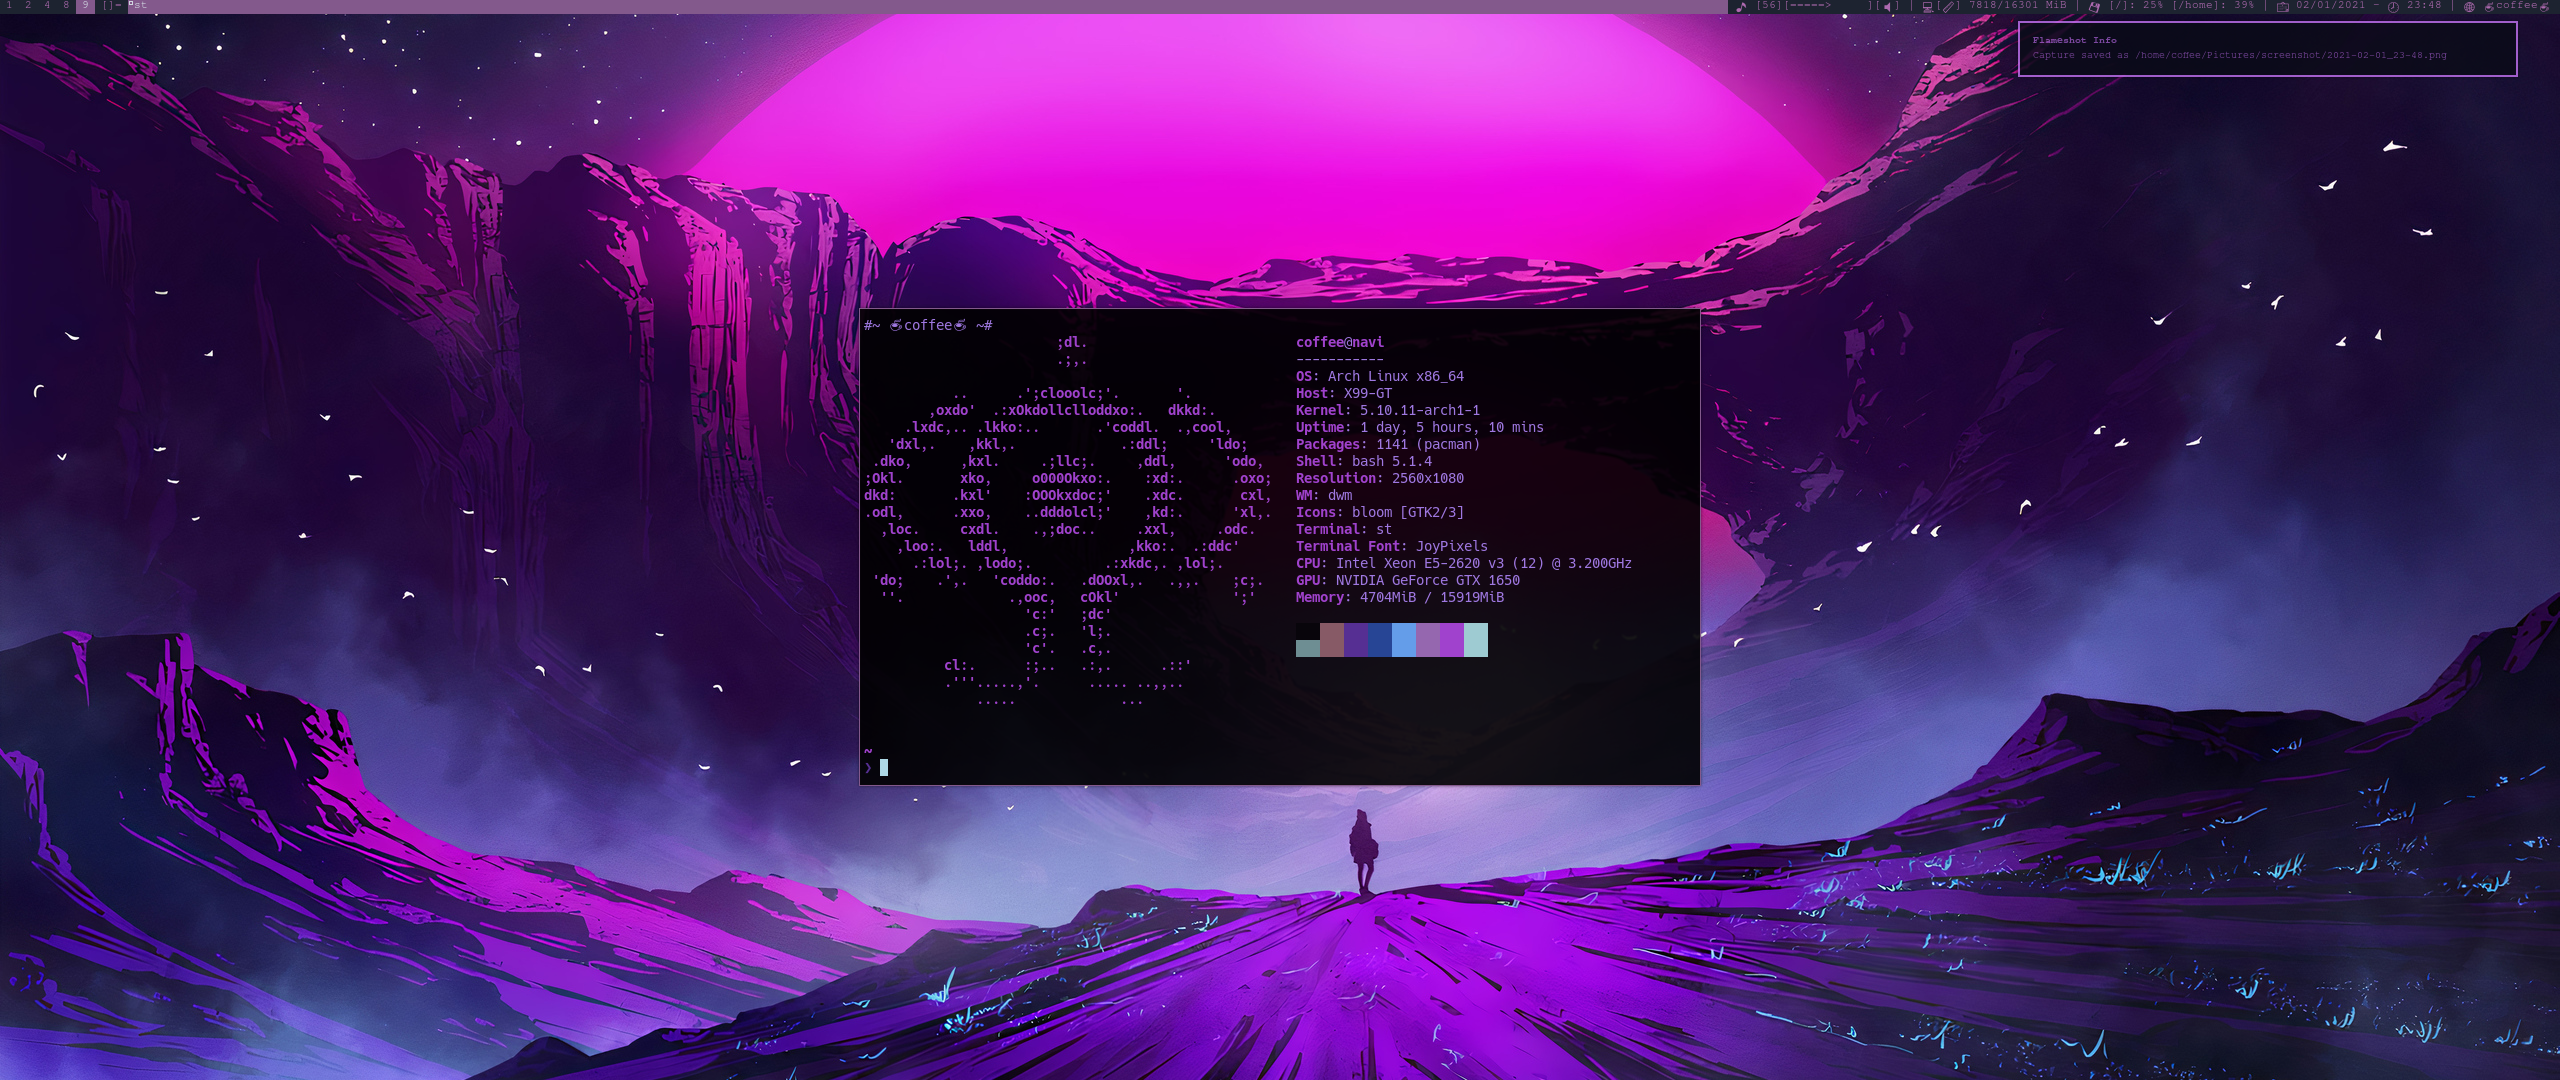
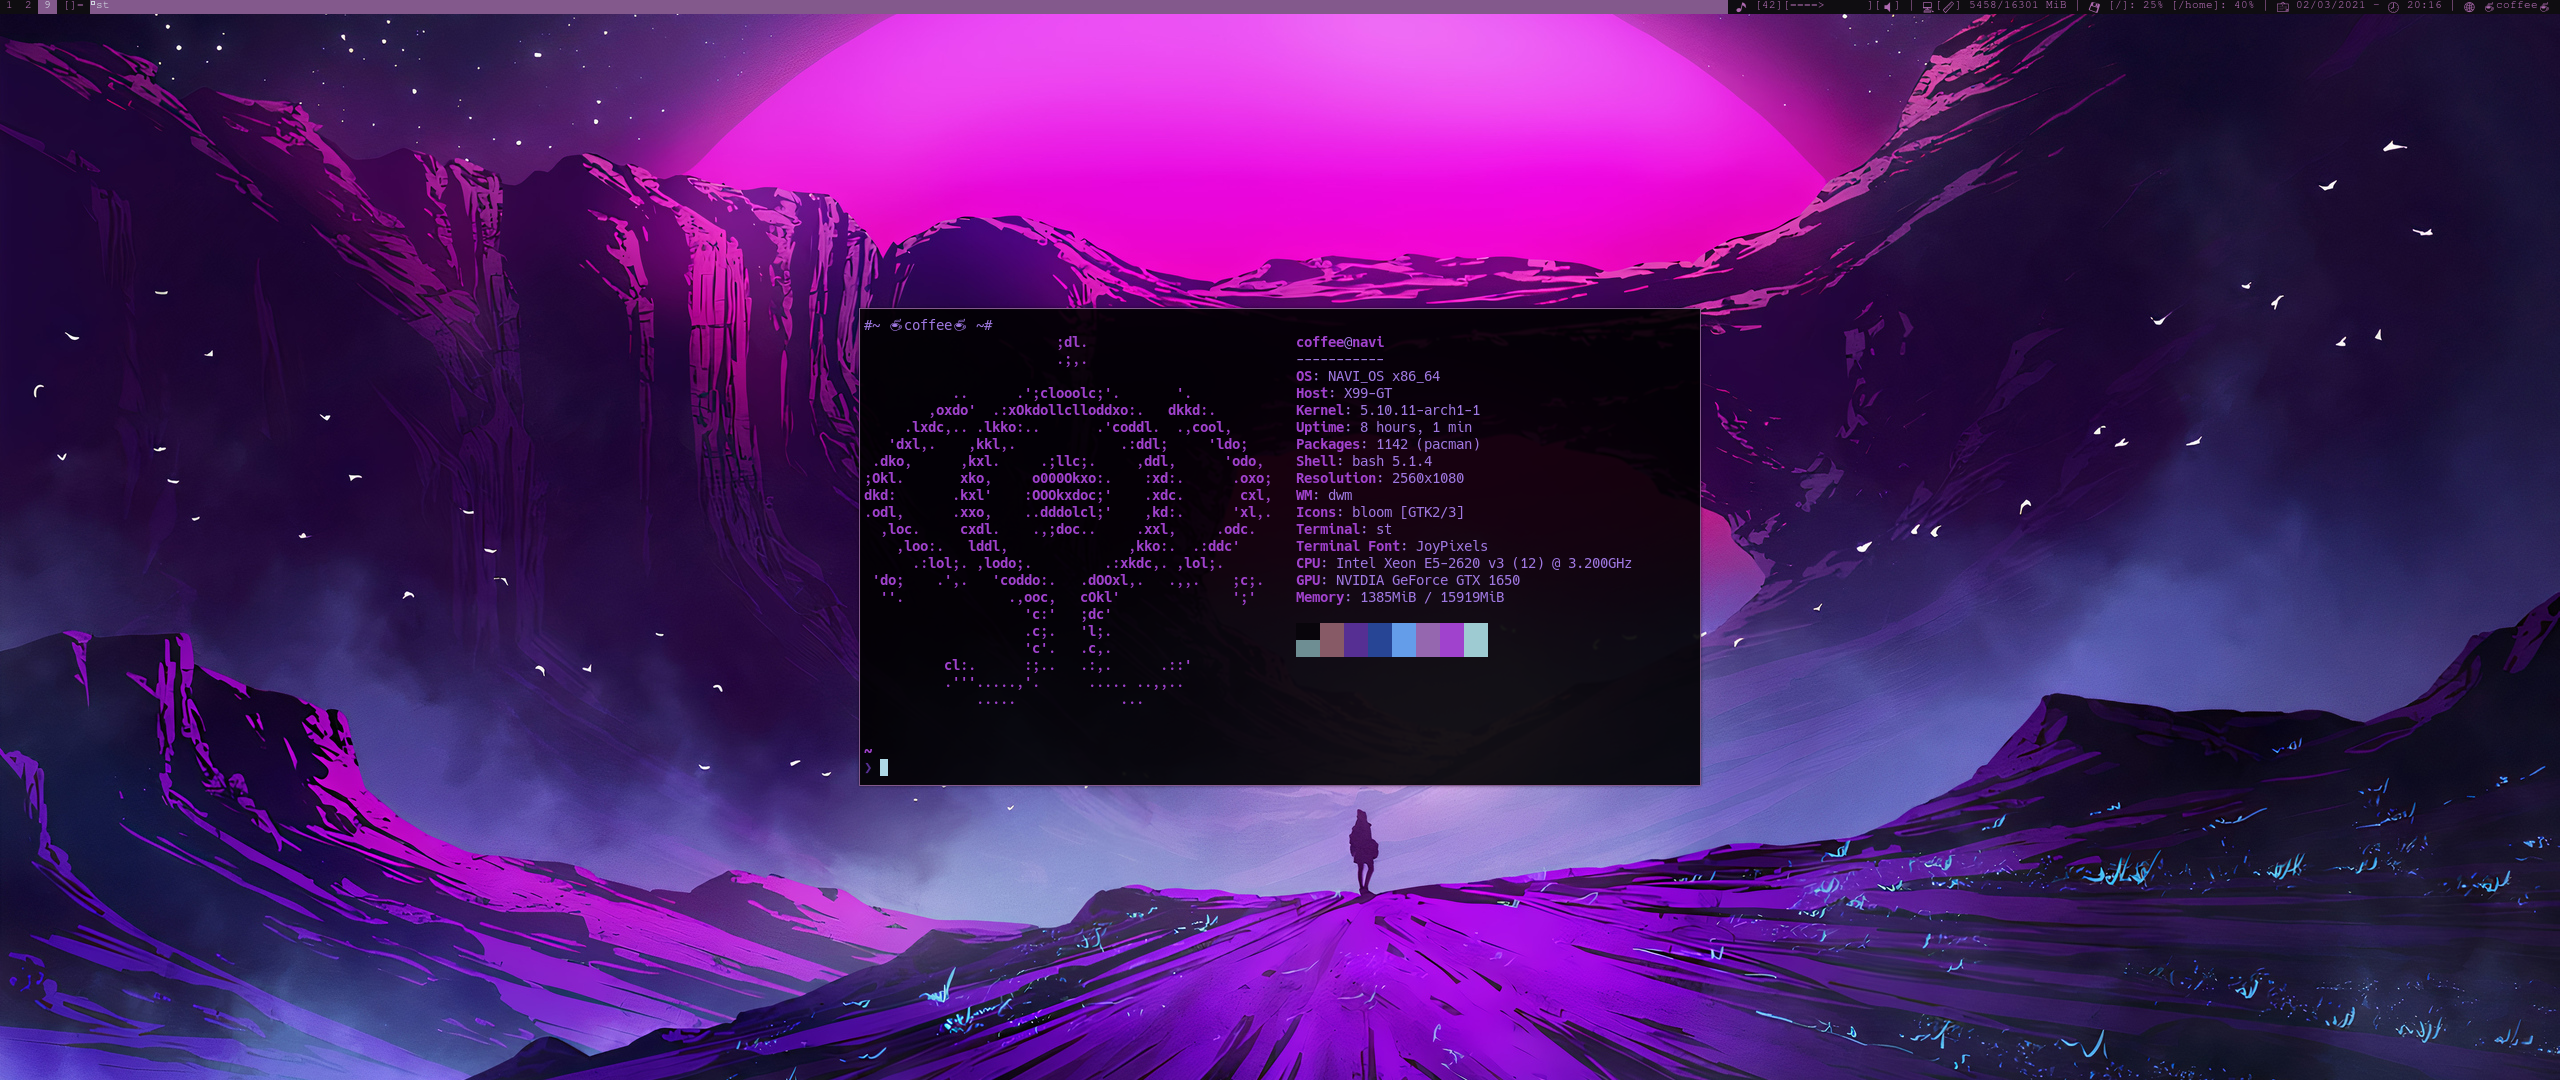
updating palletes

Changed region(s): [[0.6562, 0.0, 1.0, 0.0917], [0.0, 0.0, 0.0625, 0.0306], [0.5312, 0.3361, 0.5625, 0.3667]]

diff --git a/config.def.h b/config.def.h
@@ -15,7 +15,7 @@ static int smartgaps          = 0;        /* 1 means no outer gap when there is 
 static int showbar            = 1;        /* 0 means no bar */
 static int topbar             = 1;        /* 0 means bottom bar */
 static char *fonts[]          = { "monospace:size=10", "JoyPixels:pixelsize=10:antialias=true:autohint=true"  };
-static char normbgcolor[]     = "#1D2330";
+static char normbgcolor[]     = "#0f0d11";
 static char normbordercolor[] = "#4B4665";
 static char normfgcolor[]     = "#AD69AF";
 static char selfgcolor[]      = "#d1d7e1";

diff --git a/config.h b/config.h
@@ -15,7 +15,7 @@ static int smartgaps          = 0;        /* 1 means no outer gap when there is 
 static int showbar            = 1;        /* 0 means no bar */
 static int topbar             = 1;        /* 0 means bottom bar */
 static char *fonts[]          = { "monospace:size=10", "JoyPixels:pixelsize=10:antialias=true:autohint=true"  };
-static char normbgcolor[]     = "#1D2330";
+static char normbgcolor[]     = "#0f0d11";
 static char normbordercolor[] = "#4B4665";
 static char normfgcolor[]     = "#AD69AF";
 static char selfgcolor[]      = "#d1d7e1";
